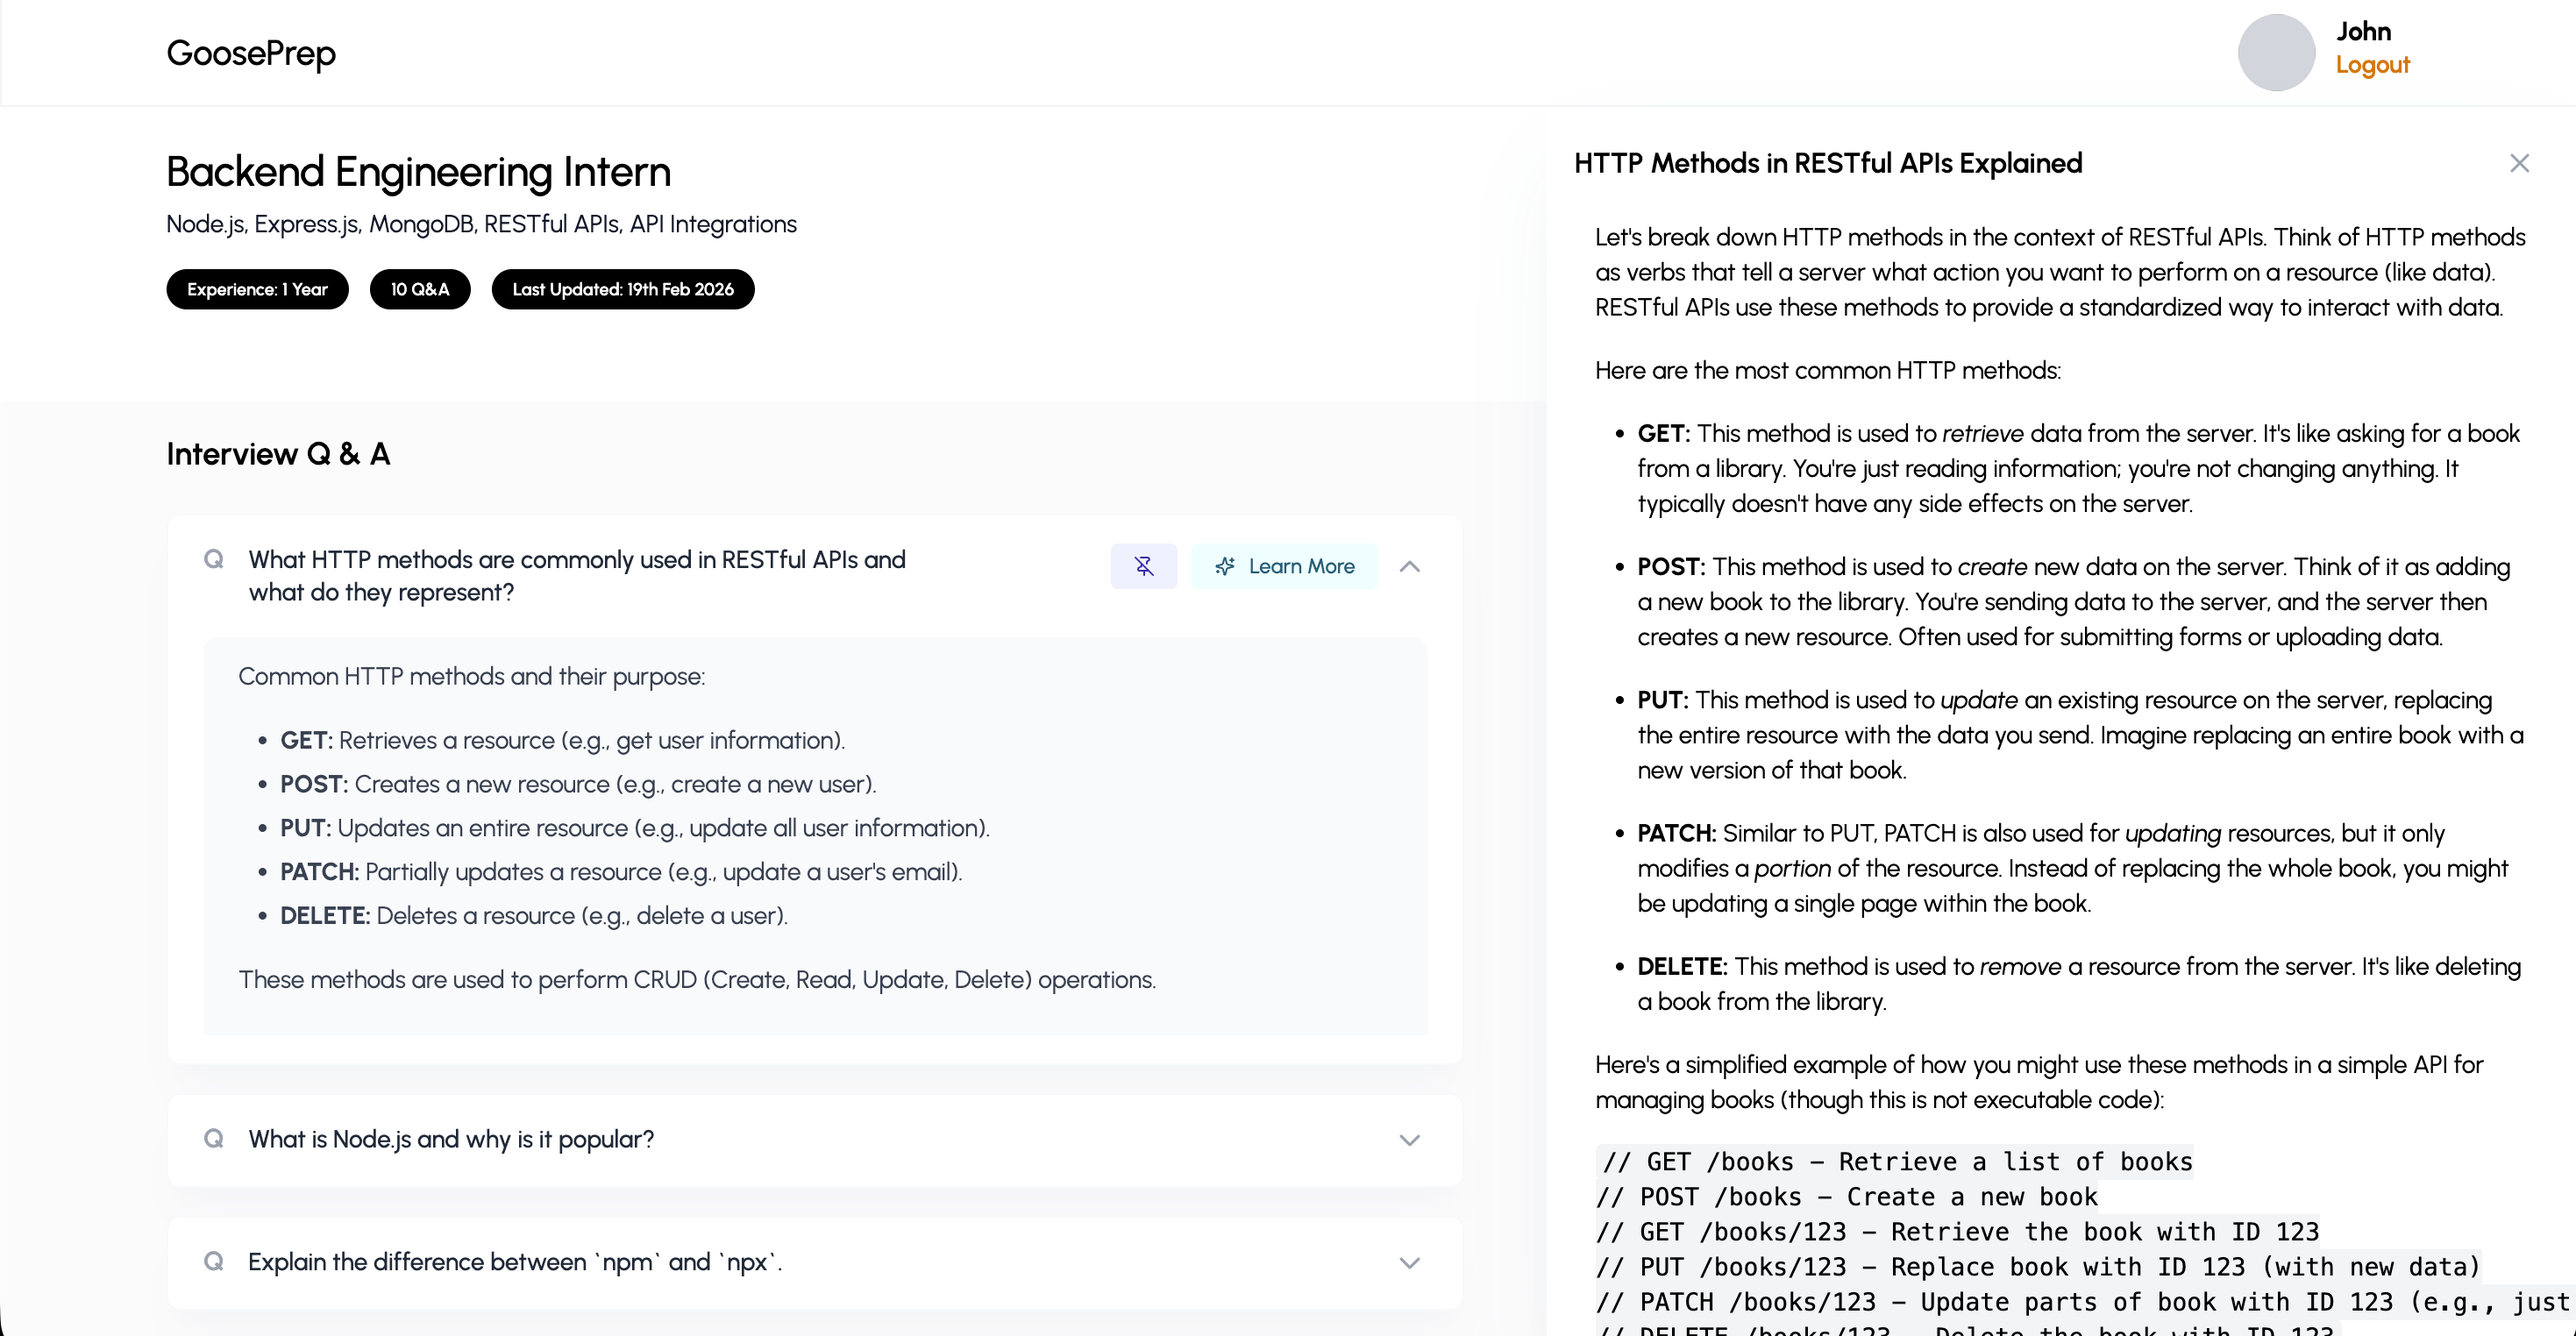
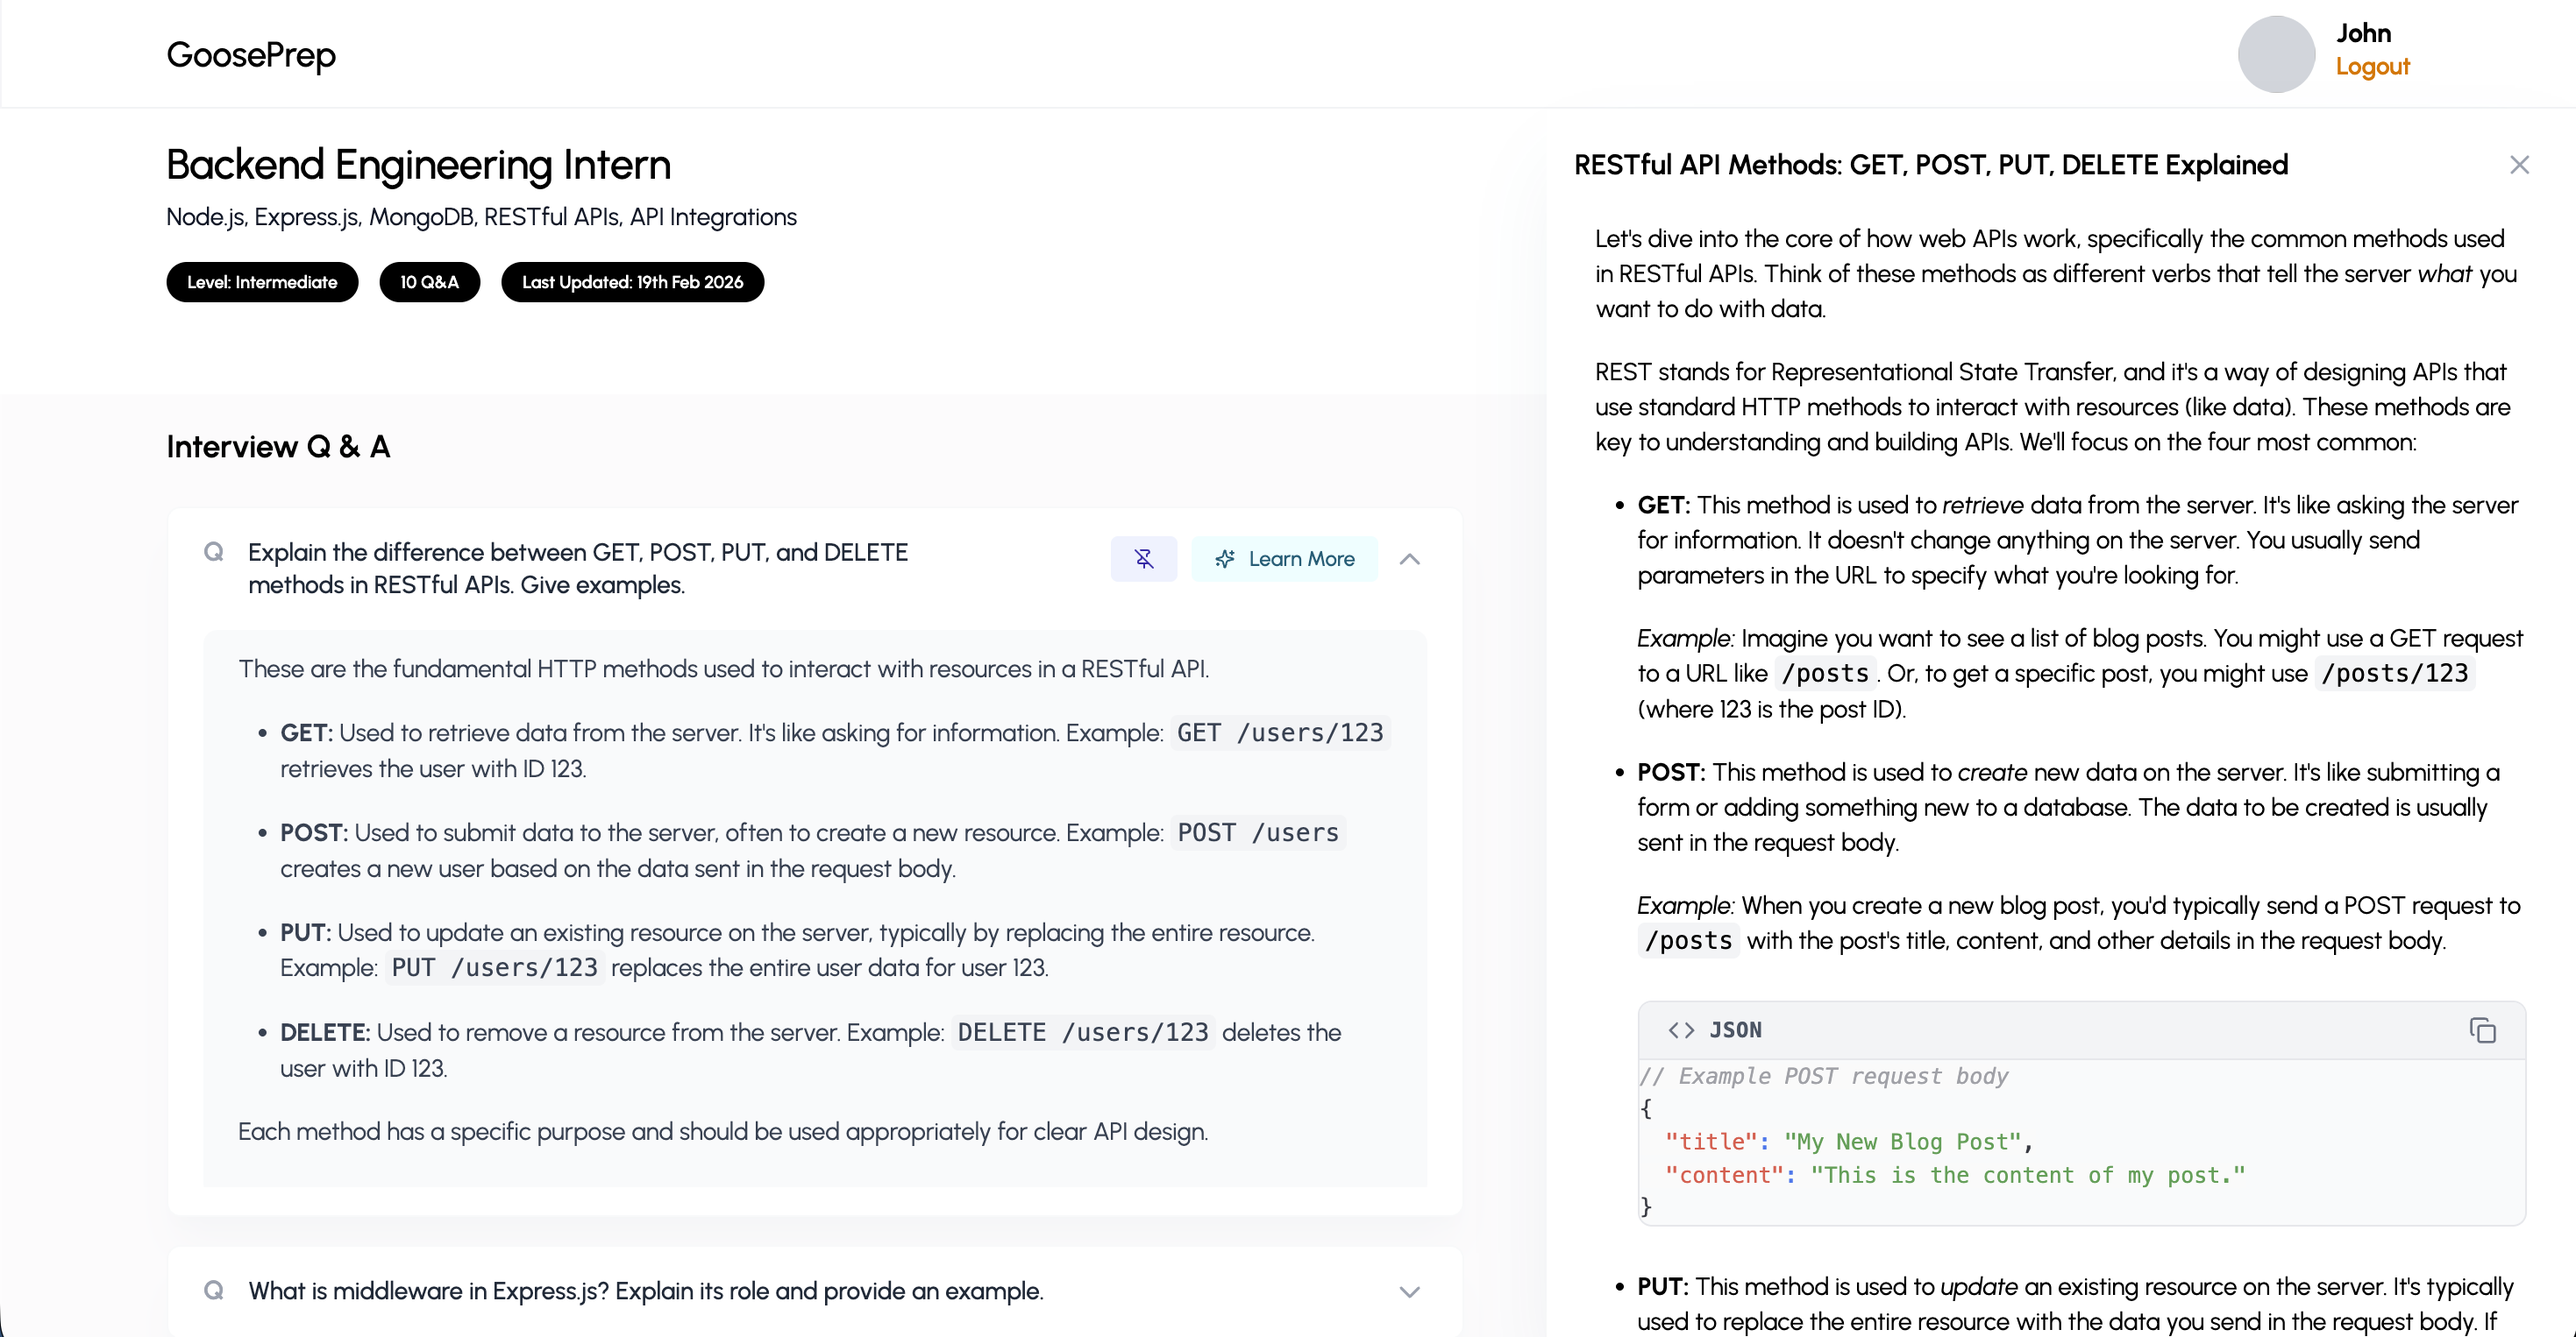
Changed experience in years to level (junior, intermediate, senior)

diff --git a/frontend/goose-prep/src/pages/Home/CreateSessionForm.jsx b/frontend/goose-prep/src/pages/Home/CreateSessionForm.jsx
@@ -8,7 +8,7 @@ import { API_PATHS } from '../../utils/apiPaths';
 const CreateSessionForm = () => {
     const [formData, setFormData] = useState({
         role: "",
-        experience: "",
+        level: "",
         topicsToFocus: "",
         description: "",
     });
@@ -28,9 +28,9 @@ const CreateSessionForm = () => {
     const handleCreateSessions = async (e) => {
         e.preventDefault();
 
-        const { role, experience, topicsToFocus } = formData;
+        const { role, level, topicsToFocus } = formData;
 
-        if (!role || !experience || !topicsToFocus) {
+        if (!role || !level || !topicsToFocus) {
             setError("Please fill all the required fields.");
             return;
         }
@@ -43,7 +43,7 @@ const CreateSessionForm = () => {
                 API_PATHS.AI.GENERATE_QUESTIONS,
                 {
                     role,
-                    experience,
+                    level,
                     topicsToFocus,
                     numberOfQuestions: 10,
                 }
@@ -87,11 +87,11 @@ const CreateSessionForm = () => {
         />
 
         <Input
-            value={formData.experience}
-            onChange={({ target }) => handleChange("experience", target.value)}
-            label="Years of Experience"
-            placeholder="(e.g., 1 year, 3 years, 5+ years)"
-            type="number"
+            value={formData.level}
+            onChange={({ target }) => handleChange("level", target.value)}
+            label="Level"
+            placeholder="(e.g., Junior, Intermediate, Senior)"
+            type="text"
         />
 
         <Input

diff --git a/backend/controllers/aiController.js b/backend/controllers/aiController.js
@@ -8,13 +8,13 @@ const ai = new GoogleGenAI({ apiKey: process.env.GEMINI_API_KEY });
 // @access  Private
 const generateInterviewQuestions = async (req, res) => {
     try {
-        const { role, experience, topicsToFocus, numberOfQuestions } = req.body;
+        const { role, level, topicsToFocus, numberOfQuestions } = req.body;
 
-        if (!role || !experience || !topicsToFocus || !numberOfQuestions) {
+        if (!role || !level || !topicsToFocus || !numberOfQuestions) {
             return res.status(400).json({ message: "Missing required fields "});
         }
 
-        const prompt = questionAnswerPrompt(role, experience, topicsToFocus, numberOfQuestions);;
+        const prompt = questionAnswerPrompt(role, level, topicsToFocus, numberOfQuestions);;
 
         const response = await ai.models.generateContent({
             model: "gemini-2.0-flash-lite",

diff --git a/frontend/goose-prep/src/pages/GoosePrep/GoosePrep.jsx b/frontend/goose-prep/src/pages/GoosePrep/GoosePrep.jsx
@@ -96,7 +96,7 @@ const GoosePrep = () => {
         API_PATHS.AI.GENERATE_QUESTIONS,
         {
           role: sessionData?.role,
-          experience: sessionData?.experience,
+          level: sessionData?.level,
           topicsToFocus: sessionData?.topicsToFocus,
           numberOfQuestions: 10,
         }
@@ -139,7 +139,7 @@ const GoosePrep = () => {
       <RoleInfoHeader
         role={sessionData?.role || ""}
         topicsToFocus={sessionData?.topicsToFocus || ""}
-        experience={sessionData?.experience || "-"}
+        level={sessionData?.level || "-"}
         questions={sessionData?.questions?.length || "-"}
         description={sessionData?.description || ""}
         lastUpdated={

diff --git a/frontend/goose-prep/src/components/Cards/SummaryCard.jsx b/frontend/goose-prep/src/components/Cards/SummaryCard.jsx
@@ -6,7 +6,7 @@ const SummaryCard = ({
   colors,
   role,
   topicsToFocus,
-  experience,
+  level,
   questions,
   description,
   lastUpdated,
@@ -58,7 +58,7 @@ const SummaryCard = ({
         <div className="px-3 pb-3">
             <div className="flex items-center gap-3 mt-4">
                 <div className="text-[10px] font-medium text-black px-3 py-1 border-[0.5px] border-gray-900 rounded-full">
-                    Experience: {experience} {experience == 1 ? "Year" : "Years"}
+                    Level: {level} 
                 </div>
 
                 <div className="text-[10px] font-medium text-black px-3 py-1 border-[0.5px] border-gray-900 rounded-full">

diff --git a/frontend/goose-prep/src/pages/GoosePrep/components/RoleInfoHeader.jsx b/frontend/goose-prep/src/pages/GoosePrep/components/RoleInfoHeader.jsx
@@ -3,7 +3,7 @@ import React from "react";
 const RoleInfoHeader = ({
   role,
   topicsToFocus,
-  experience,
+  level,
   questions,
   description,
   lastUpdated,
@@ -26,7 +26,7 @@ const RoleInfoHeader = ({
 
             <div className="flex items-center gap-3 mt-4">
                 <div className="text-[10px] font-semibold text-white bg-black px-3 py-1 rounded-full">
-                    Experience: {experience} {experience == 1 ? "Year" : "Years"}
+                    Level: {level}
                 </div>
 
                 <div className="text-[10px] font-semibold text-white bg-black px-3 py-1 rounded-full">

diff --git a/backend/controllers/sessionController.js b/backend/controllers/sessionController.js
@@ -6,14 +6,14 @@ const Question = require("../models/Question");
 // @access  Private
 exports.createSession = async (req, res) => {
     try {       
-        const { role, experience, topicsToFocus, description, questions } = 
+        const { role, level, topicsToFocus, description, questions } = 
             req.body;
         const userId = req.user._id; 
 
         const session = await Session.create({
             user: userId,
             role,
-            experience, 
+            level, 
             topicsToFocus,
             description,
         });

diff --git a/backend/utils/prompts.js b/backend/utils/prompts.js
@@ -1,9 +1,9 @@
-const questionAnswerPrompt = (role, experience, topicsToFocus, numberOfQuestions)=>(`
+const questionAnswerPrompt = (role, level, topicsToFocus, numberOfQuestions)=>(`
     You are an AI trained to generate technical interview questions and answers.
     
     Task:
     - Role: ${role}
-    - Candidate Experience: ${experience} years
+    - Candidate Level: ${level} 
     - Focus Topics: ${topicsToFocus}
     - Write ${numberOfQuestions} interview questions
     - For each question, generate a detailed but beginner-friendly answer.

diff --git a/backend/models/Session.js b/backend/models/Session.js
@@ -3,7 +3,7 @@ const mongoose = require("mongoose");
 const sessionSchema = new mongoose.Schema({
     user: { type: mongoose.Schema.Types.ObjectId, ref: "User" },
     role: { type: String, required: true },
-    experience: { type: String, required: true },
+    level: { type: String, required: true },
     topicsToFocus: { type: String, required: true },
     description: String,
     questions: [{ type: mongoose.Schema.Types.ObjectId, ref: "Question" }],

diff --git a/frontend/goose-prep/src/pages/Home/Dashboard.jsx b/frontend/goose-prep/src/pages/Home/Dashboard.jsx
@@ -60,7 +60,7 @@ const Dashboard = () => {
               colors={CARD_BG[index % CARD_BG.length]}
               role={data?.role || ""}
               topicsToFocus={data?.topicsToFocus || ""}
-              experience={data?.experience || "-"}
+              level={data?.level || "-"}
               questions={data?.questions?.length || "-"}
               description={data?.description || ""}
               lastUpdated={

diff --git a/frontend/goose-prep/src/utils/data.js b/frontend/goose-prep/src/utils/data.js
@@ -17,7 +17,7 @@ export const APP_FEATURES = [
         id: "01",
         title: "Tailored Just for You",
         description:
-        "Get interview questions and model answers based on your role, experience, and specific focus areas"
+        "Get interview questions and model answers based on your role, level, and specific focus areas"
     },
     {
        id: "02",
